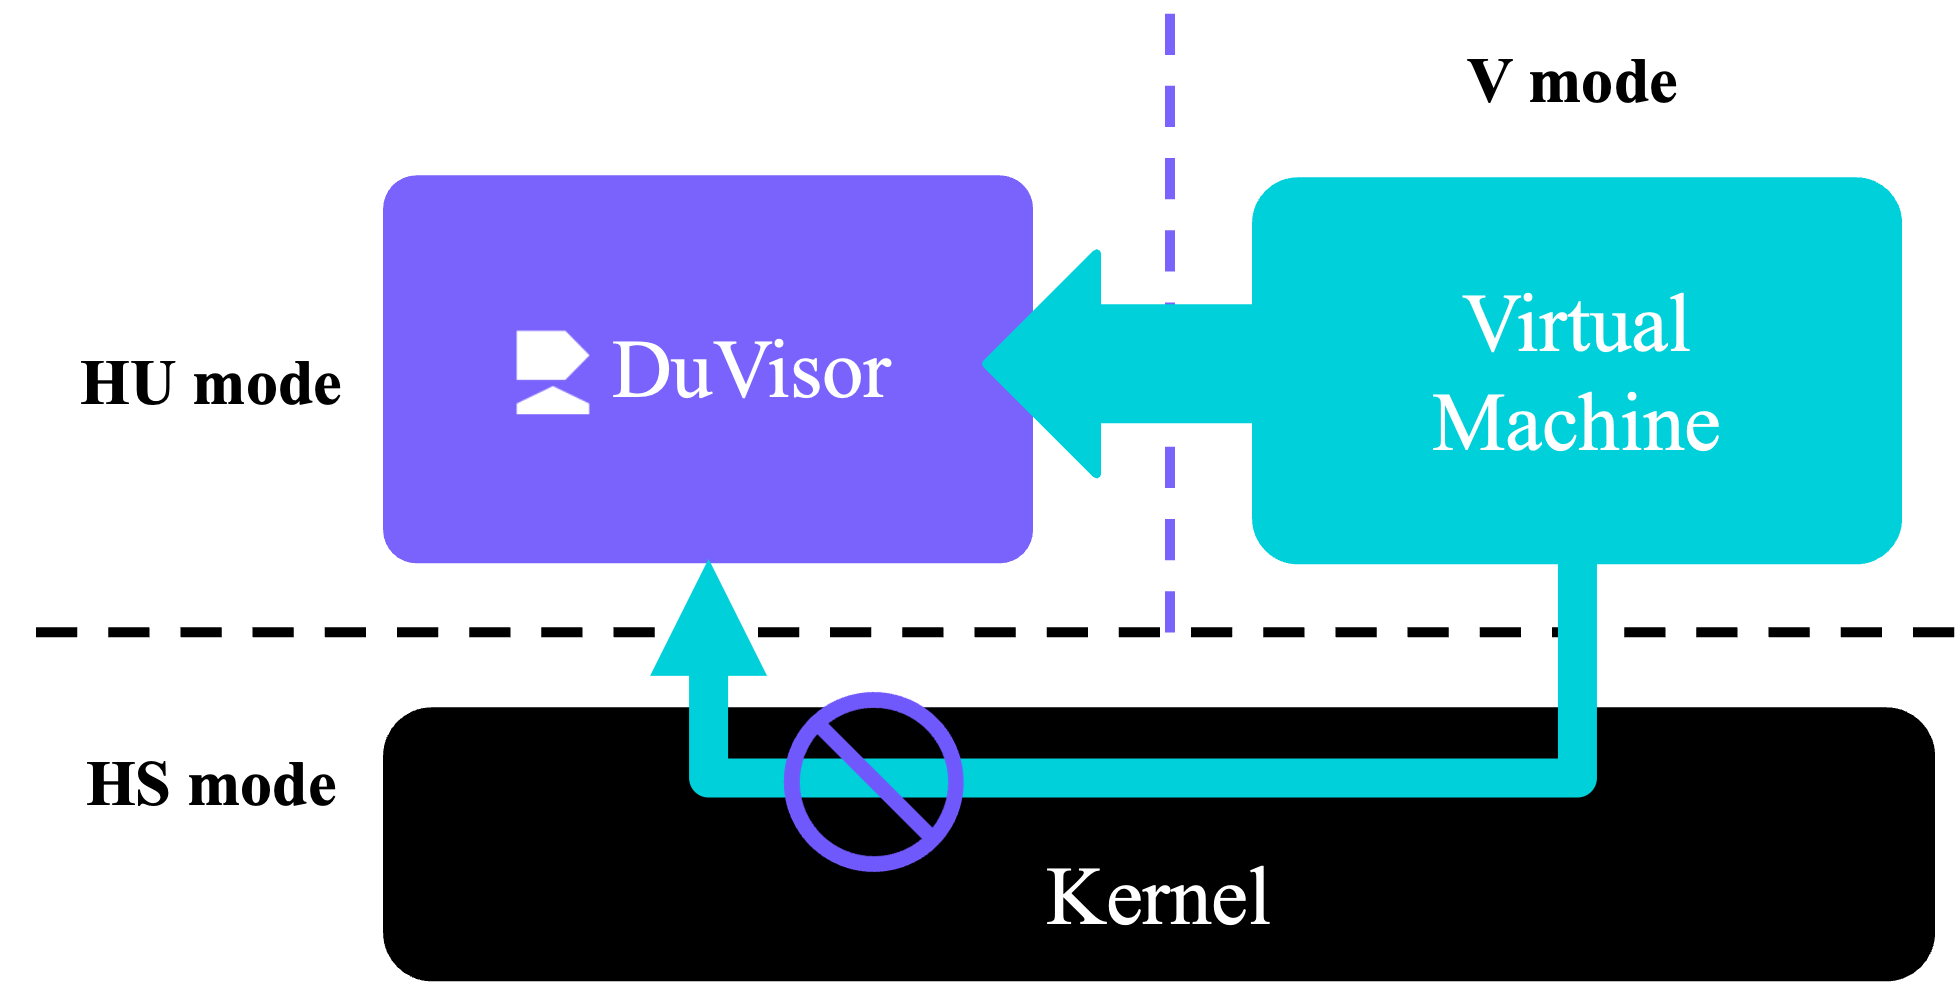
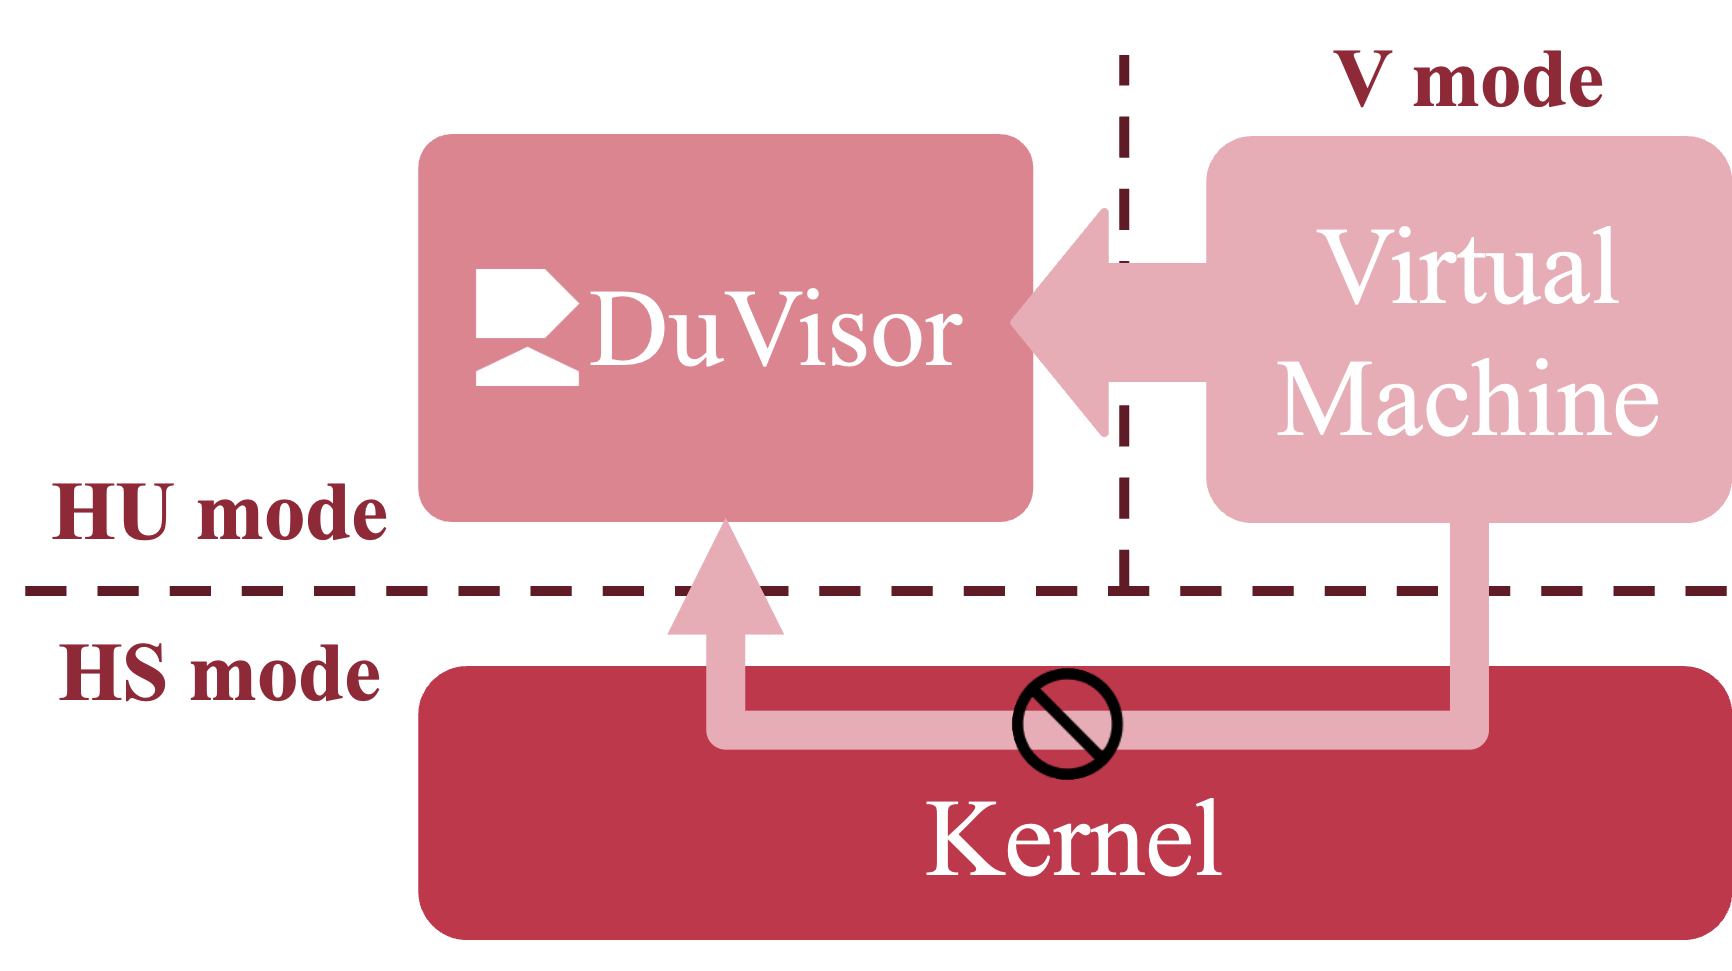
Update README for dark themes

diff --git a/README.md b/README.md
@@ -39,13 +39,13 @@ DuVisor serves VMs directly in user space with a one-to-one model to bring great
 
 With a seperate hypervisor process that serves only itself, a VM gains stronger isolation from other VMs and DuVisor processes. The host kernel is also free from the hypervisor's security vulnerabilities.
 
-<img src="./figures/arch-isol.png" width="600px" />
+<img src="./figures/arch-isol.png" width="400px" />
 
 All data interactions between the VM and the hypervisor are no longer intervened by the host kernel as in traditional virtualization. DuVisor can directly handle the traps from VMs in a more integrated way, which reduces complexity while boosting the performance. 
 
-DuVisor relies on a new hardware extension called HU-Ext to catch VM exits directly in user space. The hardware extension imports VM exits directly into the user state and provides virtualization-related registers to the user-level software to access VM states and control VM behaviors.
+DuVisor relies on a new hardware extension called DV-Ext to catch VM exits directly in user space. The hardware extension imports VM exits directly into the user state and provides virtualization-related registers to the user-level software to access VM states and control VM behaviors.
 
-<img src="./figures/arch-data.png" width="600px" />
+<img src="./figures/arch-data.png" width="400px" />
 
 DuVisor is developed in user space making it more flexible than kernel modules. For example, it uses the Rust language to build the main functionalities and thus obtains great security. At the same time, DuVisor is also able to quickly reuse rich off-the-shelf projects, such as Firecracker's I/O backend.
 
